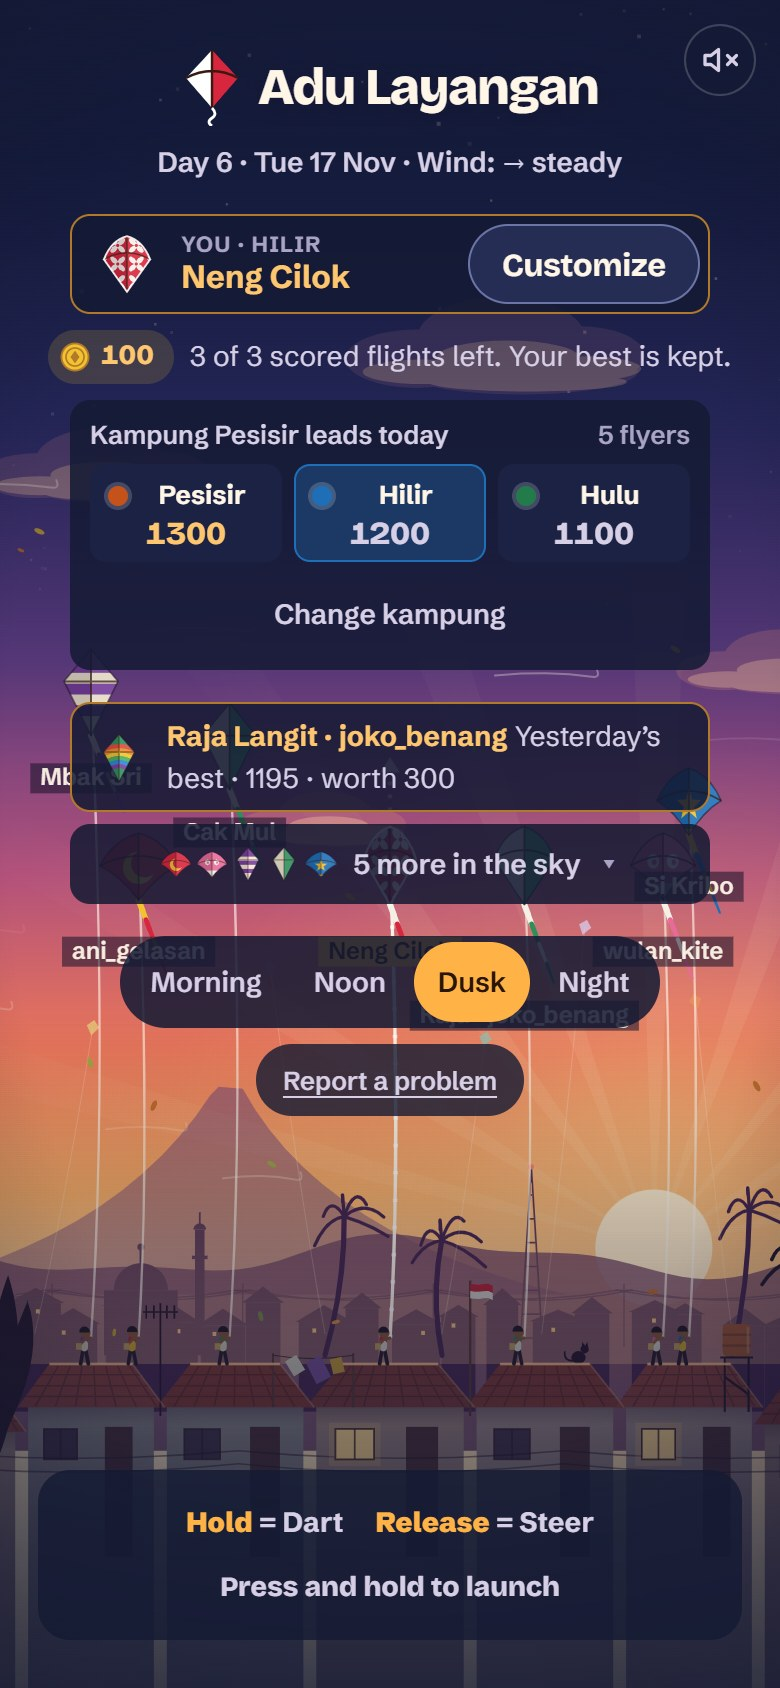
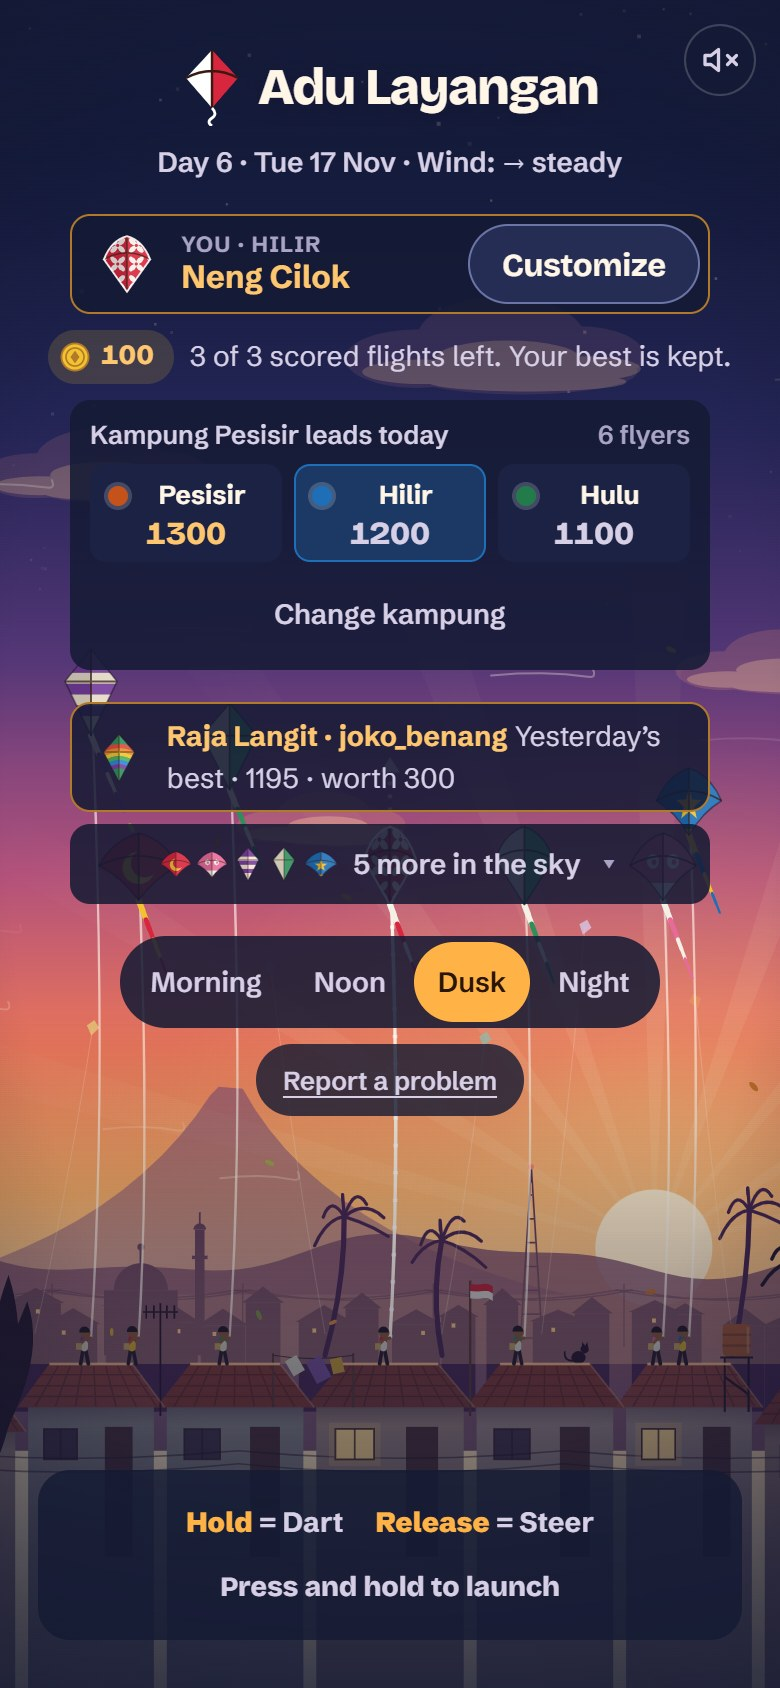
Hide kite names on the ready screen.
Name tags show on the feed card, in the first flight, and once a round starts, so they no longer show through the ready panels.

diff --git a/src/client/arena/draw.ts b/src/client/arena/draw.ts
@@ -59,6 +59,11 @@ export type Scene = {
   tick: number;
   /** Show the player's heading marker. */
   showHeading: boolean;
+  /**
+   * Show the names under the kites. Off on the ready screen, where they would show through the
+   * panels; on once the round starts, on the feed card, and in the first flight's lesson.
+   */
+  showTags: boolean;
   /** The time of day to draw the sky in. */
   mood: Mood;
   /** How the player's kite looks, and the name it flies under. */
@@ -434,9 +439,11 @@ export function drawScene(ctx: Ctx, v: View, scene: Scene, stage: Stage): void {
   ctx.textAlign = 'center';
   const rank = (k: Kite) =>
     k.id === PLAYER_ID ? 0 : k.kind === 'king' ? 1 : 2;
-  const placeOrder = match.kites
-    .filter((k) => k.state === 'flying')
-    .sort((a, b) => rank(a) - rank(b));
+  const placeOrder = scene.showTags
+    ? match.kites
+        .filter((k) => k.state === 'flying')
+        .sort((a, b) => rank(a) - rank(b))
+    : [];
   const taken: { l: number; r: number; t: number; b: number }[] = [];
   const free = (l: number, r: number, t: number, b: number) =>
     !taken.some(

diff --git a/src/client/arena/Arena.tsx b/src/client/arena/Arena.tsx
@@ -493,6 +493,7 @@ export function Arena({
           now: t,
           tick: shown,
           showHeading: mode === 'play',
+          showTags: mode === 'attract' || started || live.current.practice,
           mood: live.current.mood,
           player: live.current.player,
           fray: frayLevel,
